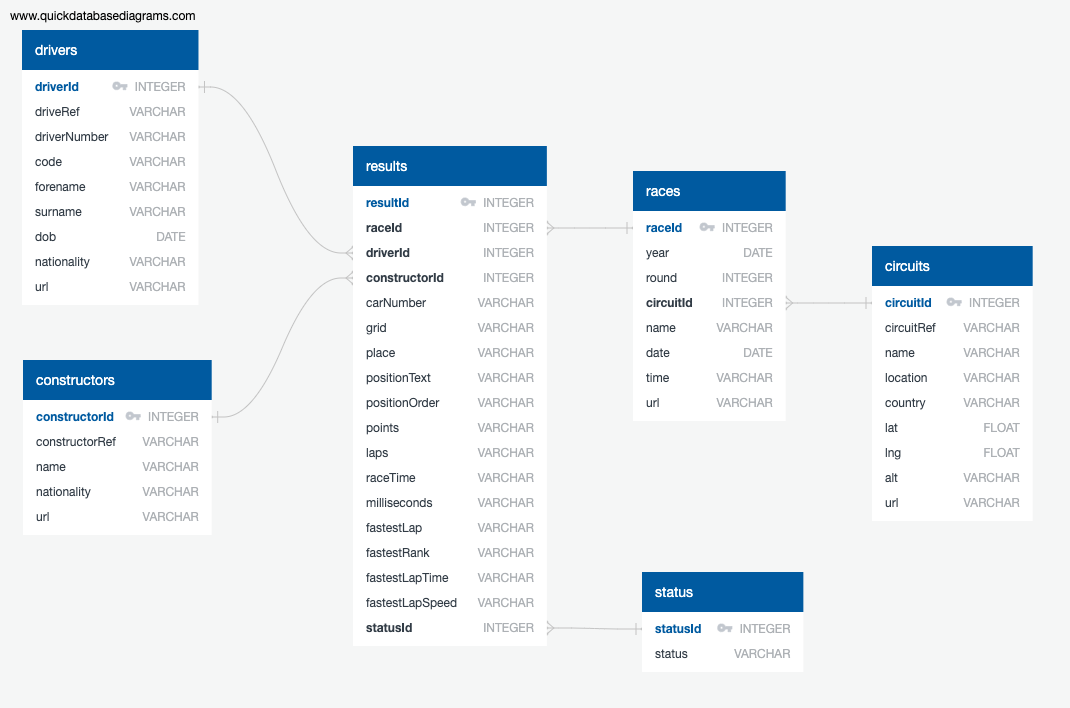
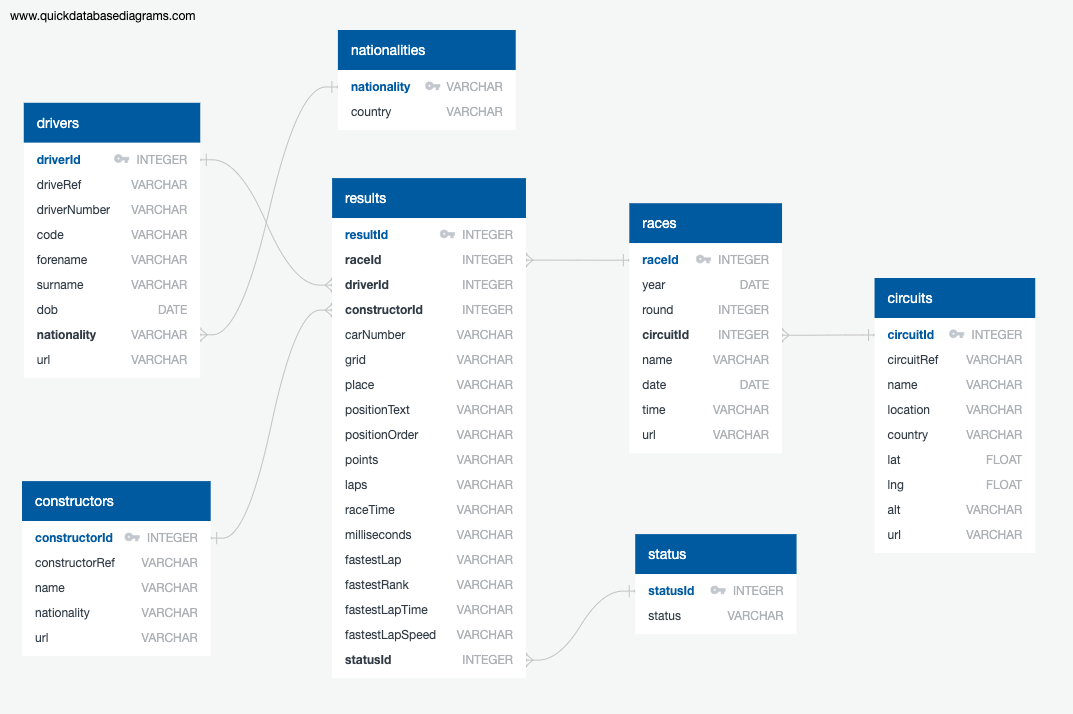
updated app.py, schema, ERD, and added viz3.html

diff --git a/templates/viz3.html b/templates/viz3.html
@@ -1,0 +1,28 @@
+<!DOCTYPE html>
+<html lang="en">
+<head>
+    <meta charset="UTF-8">
+    <meta name="viewport" content="width=device-width, initial-scale=1.0">
+    <!-- CSS goes here -->
+    <!-- Bootstrap -->
+    <link href="https://cdn.jsdelivr.net/npm/bootstrap@5.0.0-beta1/dist/css/bootstrap.min.css" rel="stylesheet" integrity="sha384-giJF6kkoqNQ00vy+HMDP7azOuL0xtbfIcaT9wjKHr8RbDVddVHyTfAAsrekwKmP1" crossorigin="anonymous">
+    <!-- Custom CSS -->
+    <link rel="stylesheet" type="text/css" href="/static/css/style.css">
+    <title>Website Title</title>
+</head>
+<body>
+    <h1>Viz 3</h1>
+    <div id="regions_div" style="width: 900px; height: 500px;"></div>
+
+    <!-- ...and JavaScript goes here -->
+    <!-- Bootstrap -->
+    <script src="https://cdn.jsdelivr.net/npm/bootstrap@5.0.0-beta1/dist/js/bootstrap.bundle.min.js" integrity="sha384-ygbV9kiqUc6oa4msXn9868pTtWMgiQaeYH7/t7LECLbyPA2x65Kgf80OJFdroafW" crossorigin="anonymous"></script>
+    <!-- D3 -->
+    <script src="https://cdnjs.cloudflare.com/ajax/libs/d3/6.4.0/d3.js" integrity="sha512-nUKG/5WjpjShkRZ7hidJ+GhtjnTbQV+IGf0c3KZCsOyqLPSzzzHzJ6QE57GPFA/WsE6nOKuGDlSXlrBxGELtOA==" crossorigin="anonymous"></script>
+    <!-- maps -->
+    <script type="text/javascript" src="https://www.gstatic.com/charts/loader.js"></script>
+    <!-- Custom JS -->
+    <script src="/static/js/config.js"></script>
+    <script src="/static/js/mapscript.js"></script>
+</body>
+</html>

diff --git a/static/js/mapscript.js b/static/js/mapscript.js
@@ -1,0 +1,41 @@
+// get the data from the flask api
+fetch('/map_data')
+      .then(function (response) {
+          return response.json();
+      }).then(function (data) {
+          console.log('GET response:');
+          let mapData = data;
+          // send data to the createMap function
+          createMap(mapData);
+      });
+
+// function to create the map      
+function createMap (mapData) {
+    // load the Google GeoChart package
+    google.charts.load('current', {
+        'packages':['geochart'],
+        'mapsApiKey': API_KEY
+    });
+
+    // call function to draw the map
+    google.charts.setOnLoadCallback(drawRegionsMap);
+
+    // function to create map
+    function drawRegionsMap() {
+
+        // set data
+        var data = google.visualization.arrayToDataTable(mapData);
+
+        // set options
+        var options = {
+            colorAxis: {colors: ['#e7711c', '#4374e0']},
+        };
+
+        // set where in html to put chart
+        var chart = new google.visualization.GeoChart(document.getElementById('regions_div'));
+
+        // draw chart using data & options specified
+        chart.draw(data, options);
+    }
+
+}

diff --git a/static/js/config.js b/static/js/config.js
@@ -1,0 +1,2 @@
+// API key
+const API_KEY = "AIzaSyDSZfX2xxa071XwxZWy0xFI-jmlSWWSvgg"

diff --git a/app.py b/app.py
@@ -1,6 +1,13 @@
 from flask import Flask, render_template, jsonify
 import data
 
+import sqlalchemy
+from sqlalchemy.ext.automap import automap_base
+from sqlalchemy.orm import Session
+from sqlalchemy import create_engine, func, desc
+import datetime as dt
+import pandas as pd
+
 
 app = Flask(__name__, 
             static_folder='static',
@@ -18,12 +25,29 @@ def viz1():
 def viz2():
     return render_template('viz2.html')
 
+@app.route('/viz3')
+def viz3():
+    return render_template('viz3.html')
 
-@app.route('/db_data', methods=['GET'])
-def database_data():
-    # data = data.get_db_data()
-    data = {"this": "is my database data"}
-    return jsonify(data)
+@app.route('/map_data', methods=['GET'])
+def map_data():
+    #create engine to connect to SQL database
+    engine = create_engine("postgresql://postgres:postgres@localhost/formula1")
+    #connect to SQL database
+    connection = engine.connect()
+
+    # creat dataframe of wins per country from database
+    wins_per_country = pd.read_sql('SELECT n.country, w.wins \
+        FROM countryWins AS w \
+        JOIN nationalities AS n \
+        ON w.nationality = n.nationality \
+        ORDER BY wins DESC;' , connection)
+
+    # convert dataframe to list of lists with header
+    wins_per_country_list = [wins_per_country.columns.values.tolist()] \
+        + wins_per_country.values.tolist()
+
+    return jsonify(wins_per_country_list)
 
 
 @app.route('/api_data', methods=['GET'])
@@ -35,4 +59,3 @@ def api_data():
 
 if __name__ == '__main__':
     app.run(debug=True)
-    
